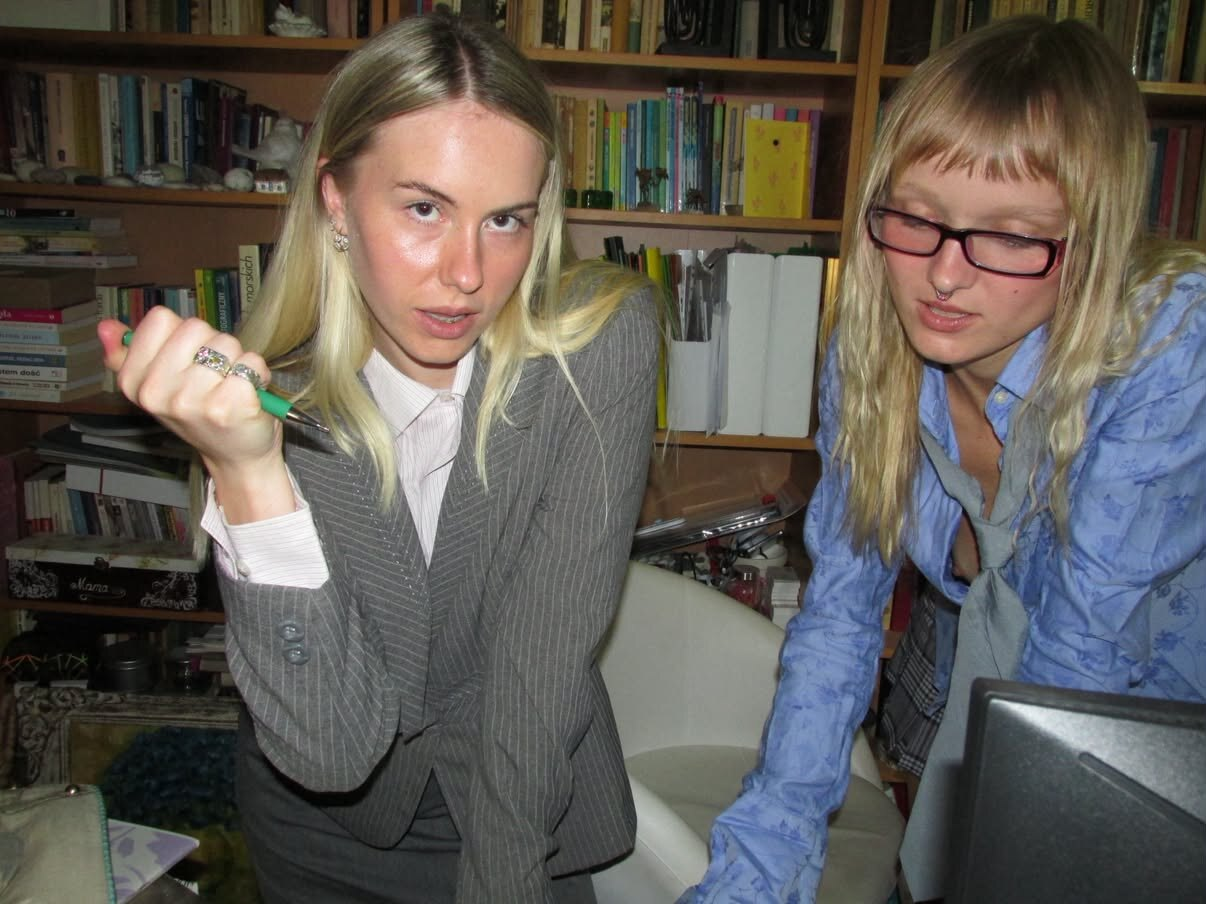
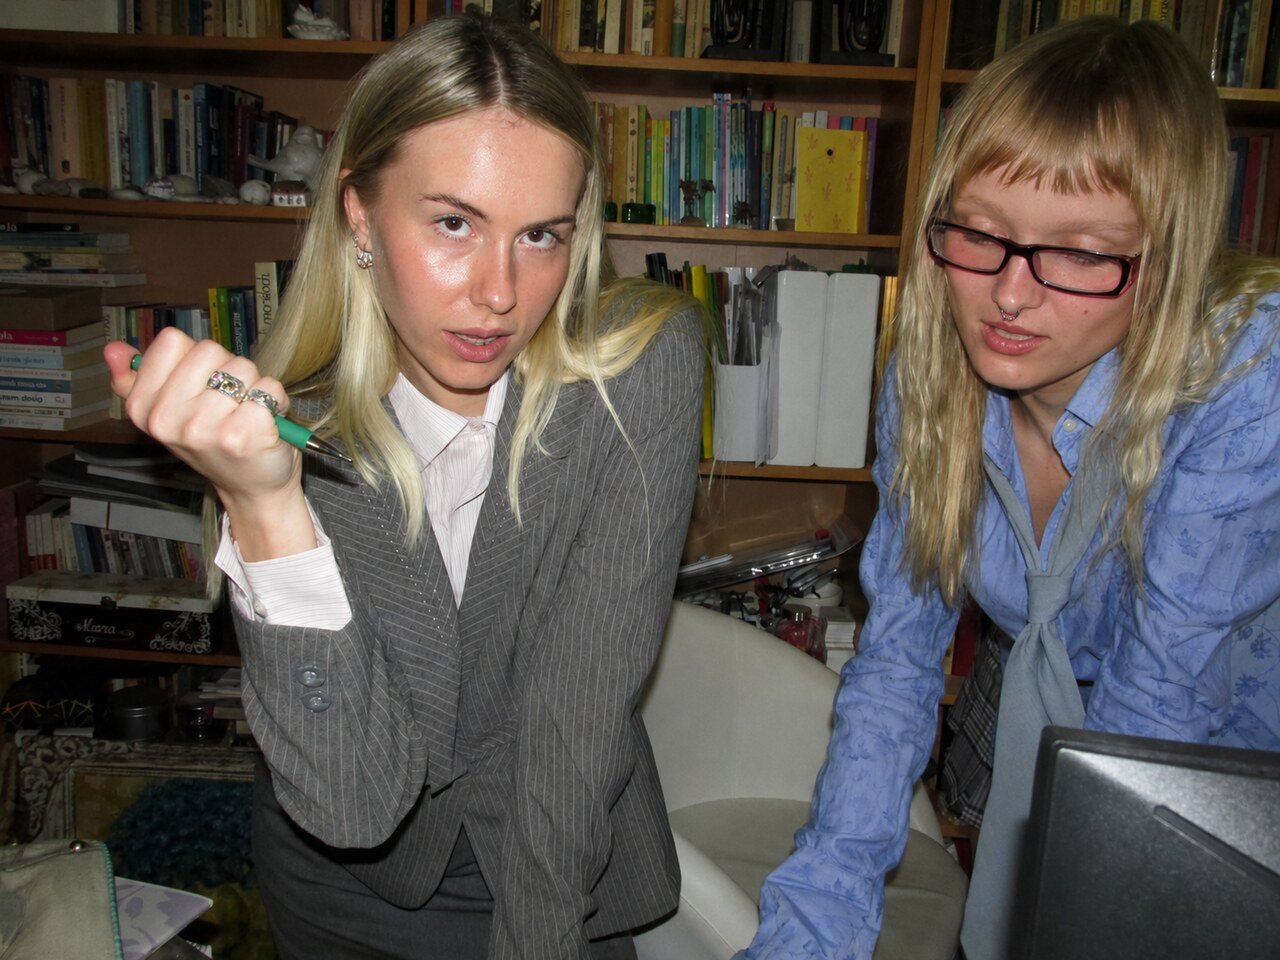
Zdjęcie hero podmienione na wersję z Downloads, wraca na pełną szerokość
- hero-team-*.jpg podmienione na nowe (wyższej rozdzielczości, 1448x1086
  zamiast 1206x904 — pomaga też z ostrością na dużych ekranach)
- .hero-band z powrotem na jedną kolumnę, pełna szerokość na każdym
  ekranie, nie tylko na telefonie. Drugie zdjęcie (zbliżenie na
  pierścionki) usunięte z index.html — pliki hero-rings-*.jpg zostają
  na dysku nieużywane, gdyby wróciło pytanie o układ dwukolumnowy

diff --git a/styles.css b/styles.css
@@ -198,11 +198,9 @@ h1,h2,h3,h4{ margin:0; font-weight:700; color:var(--ink); line-height:1.2; }
 /* =========================================================
    Baner pełnoekranowy (hero)
    ========================================================= */
-/* dwa zdjęcia obok siebie na szerszych ekranach — jedno na całą
-   szerokość na dużym monitorze skaluje się słabo (za mało pikseli
-   źródłowych na taką szerokość, robi się nieostre) */
-.hero-band{ position:relative; display:grid; grid-template-columns:1fr 1fr; height:min(62vh,560px); }
+.hero-band{ position:relative; display:grid; grid-template-columns:1fr; height:min(62vh,560px); }
 .hero-band figure{ margin:0; overflow:hidden; background:var(--tile); }
+.hero-band figure:nth-child(2){ display:none; } /* jedno zdjęcie na całą szerokość */
 .hero-band img{ width:100%; height:100%; object-fit:cover; }
 .hero-band__overlay{
   position:absolute; left:var(--edge); bottom:2.6rem; z-index:2; color:#fff; max-width:min(46ch,54%);
@@ -723,8 +721,7 @@ h1,h2,h3,h4{ margin:0; font-weight:700; color:var(--ink); line-height:1.2; }
 @media (max-width:900px){
   .split, .contact-grid{ grid-template-columns:1fr; gap:2.4rem; }
   .stuff{ grid-template-columns:1fr; gap:1.8rem; }
-  .hero-band{ grid-template-columns:1fr; height:min(58vh,460px); }
-  .hero-band figure:nth-child(2){ display:none; } /* jedno zdjęcie na telefonie */
+  .hero-band{ height:min(58vh,460px); }
   .hero-band__overlay{ max-width:none; right:var(--edge); }
   .footer-top{ grid-template-columns:1fr; gap:2.4rem; }
 }

diff --git a/index.html b/index.html
@@ -78,8 +78,7 @@
 
     <!-- opening banner: two full-bleed photos with the text on top -->
     <section class="hero-band">
-      <figure><img src="zdj/web/hero-team-1280.jpg" srcset="zdj/web/hero-team-400.jpg 400w, zdj/web/hero-team-640.jpg 640w, zdj/web/hero-team-1280.jpg 1280w" sizes="(max-width:900px) 100vw, 50vw" alt="Two modern princesses at work, rings on" fetchpriority="high"></figure>
-      <figure><img src="zdj/web/hero-rings-1280.jpg" srcset="zdj/web/hero-rings-400.jpg 400w, zdj/web/hero-rings-640.jpg 640w, zdj/web/hero-rings-1280.jpg 1280w" sizes="(max-width:900px) 100vw, 50vw" alt="A close-up of two ARTarual rings, worn stacked" loading="lazy"></figure>
+      <figure><img src="zdj/web/hero-team-1280.jpg" srcset="zdj/web/hero-team-400.jpg 400w, zdj/web/hero-team-640.jpg 640w, zdj/web/hero-team-1280.jpg 1280w" sizes="100vw" alt="Two modern princesses at work, rings on" fetchpriority="high"></figure>
       <div class="hero-band__overlay">
         <h1 class="hero-band__title" data-i18n="home.hero.title">made by hand</h1>
         <p class="hero-band__sub" data-i18n="home.hero.sub">Rings and signets from a one-person studio in Warsaw. You pick the zircon colour and the size.</p>
